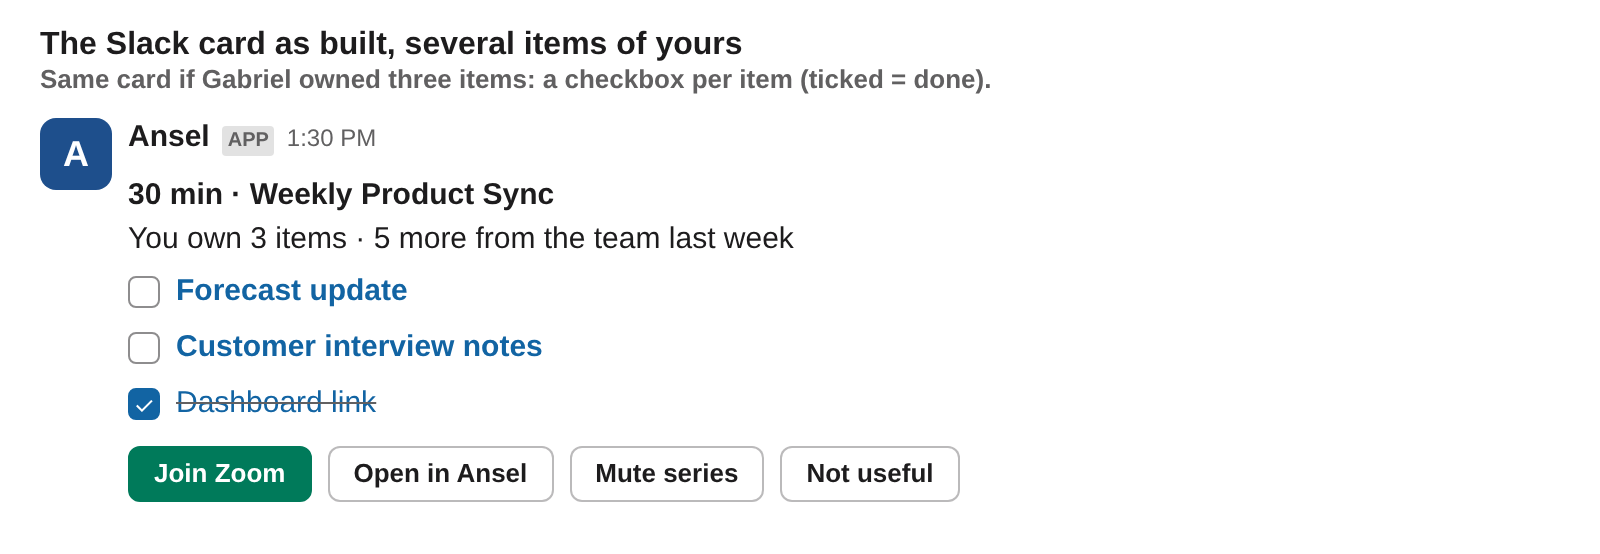
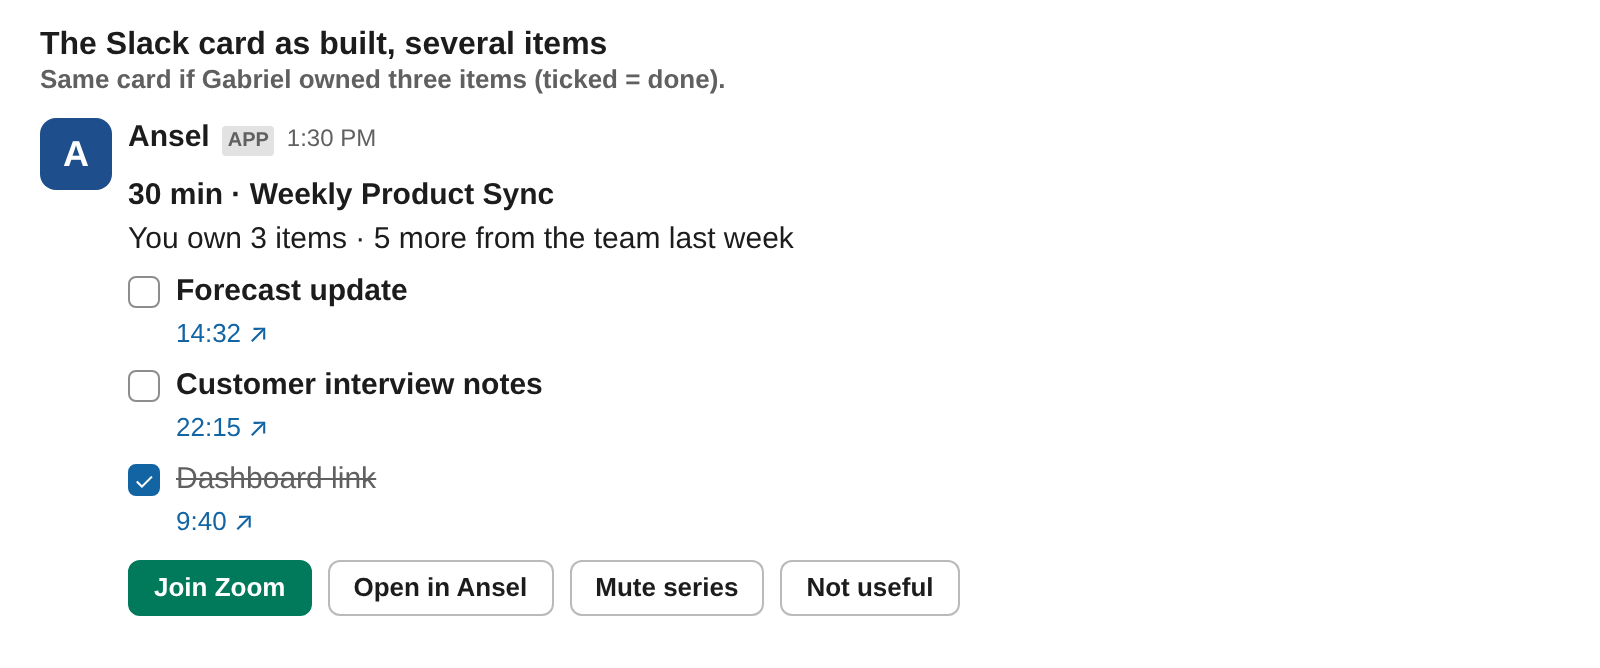
Slack card: a checkbox per item of yours with a short timestamp link
Every item of yours (one or several) gets a checkbox, its note a link to
its transcript moment; the ✓ button goes. Links use the prototype's new
short #t/<itemId> form so checkbox labels and notes stay within Slack's
75-character limit (this also fixes oversized labels on cards with several
items). The prototype resolves #t/<itemId> to the item's meeting and time.

Claude-Session: https://claude.ai/code/session_01SoGk1RXc8CwLh1htLSh9WK

Changed region(s): [[0.0, 0.0307, 0.625, 0.3682], [0.0625, 0.491, 0.5938, 0.9206], [0.0625, 0.3989, 0.5, 0.4603]]

diff --git a/slack-app/src/card.js b/slack-app/src/card.js
@@ -1,10 +1,12 @@
 // Slack Block Kit version of the Heads-Up card, contract 2.0 data (card/CONTRACT.md), in the team's chosen
 // condensed layout (card/slack-mockups/condensed, B3 + M2): one text block and one row of buttons.
 //   *30 min · Weekly Product Sync*
-//   You own <Forecast update> · 5 more items from last week          (one item of yours: a ✓ button)
-//   You own 3 items · 4 more from the team last week + a checkbox per item (several items of yours)
-//   [✓] [Join Zoom] [Open in Ansel] [Mute series] [Not useful]
-// Item names link to their moment in last meeting's transcript in the hosted prototype.
+//   You own 2 items · 4 more from the team last week
+//   ☐ Forecast update        (a checkbox per item of yours, up to 3; ticked = done)
+//     14:32 ↗                (small note: link to that moment in last meeting's transcript)
+//   [Join Zoom] [Open in Ansel] [Mute series] [Not useful]
+// Slack caps checkbox labels and notes at 75 characters, link address included, so the note uses the
+// prototype's short #t/<itemId> link.
 
 export const NOT_USEFUL_REASONS = [['already_knew', 'Already knew this'], ['wrong_meeting', 'Wrong meeting'], ['bad_timing', 'Bad timing']]
 const SOON_MS = 5 * 60000
@@ -33,6 +35,10 @@ const md = (text) => ({ type: 'mrkdwn', text })
 const ctxBlock = (text) => ({ type: 'context', elements: [md(text)] })
 
 export const MAX_CHECKBOXES = 3
+export const OPTION_LIMIT = 75 // Slack's limit for a checkbox label or note
+
+/** Short transcript link (#t/<itemId>); the prototype opens that item's moment in its meeting. */
+export const shortTranscriptLink = (prototypeUrl, itemId) => (prototypeUrl ? `${prototypeUrl.replace(/#.*$/, '')}#t/${itemId}` : null)
 
 /**
  * entry: { persona, sid, startMs, joinUrl, postMs, data (contract 2.0), ui: { muted, notUseful, done } }
@@ -62,25 +68,25 @@ export function buildCard(entry, { nowMs = Date.now(), prototypeUrl = '' } = {})
   const mine = items.filter((i) => i.owner.id === me)
   const othersCount = items.length - mine.length + (data.actionItems.moreCount || 0)
   const isDone = (it) => ui.done[it.id] ?? !!it.done
-  const name = (it) => {
-    const url = deepLink(prototypeUrl, { instanceId: data.lastMeeting.meetingId, t: it.t, itemId: it.id })
-    return url ? `<${url}|${it.text}>` : it.text
-  }
   const plural = (n, word) => `${n} ${word}${n === 1 ? '' : 's'}`
+  const fit = (text) => (text.length <= OPTION_LIMIT ? text : `${text.slice(0, OPTION_LIMIT - 1)}…`)
 
   let line
   if (mine.length === 0) line = `${plural(othersCount, 'action item')} from last week, none assigned to you`
-  else if (mine.length === 1) {
-    const it = mine[0]
-    line = `You own ${isDone(it) ? `~${name(it)}~ · _Done_` : `*${name(it)}*`}${othersCount ? ` · ${othersCount} more item${othersCount === 1 ? '' : 's'} from last week` : ''}`
-  } else line = `You own ${mine.length} items${othersCount ? ` · ${othersCount} more from the team last week` : ''}`
+  else line = `You own ${plural(mine.length, 'item')}${othersCount ? ` · ${othersCount} more from the team last week` : ''}`
   if (state === 'ended') line += '\n_Meeting ended · new summary in about 6 min_'
 
   const blocks = [{ type: 'section', text: md(`*${hero} · ${m.title}*\n${line}`) }]
 
-  if (mine.length > 1) {
+  if (mine.length) {
     const shown = mine.slice(0, MAX_CHECKBOXES)
-    const option = (it) => ({ text: md(isDone(it) ? `~${name(it)}~` : `*${name(it)}*`), value: it.id })
+    const option = (it) => {
+      const name = it.text.slice(0, OPTION_LIMIT - 4)
+      const url = shortTranscriptLink(prototypeUrl, it.id)
+      const stamp = fmtStamp(it.seconds)
+      const note = url && `<${url}|${stamp} ↗>`.length <= OPTION_LIMIT ? `<${url}|${stamp} ↗>` : stamp
+      return { text: md(isDone(it) ? `~${name}~` : `*${name}*`), description: md(fit(note)), value: it.id }
+    }
     const checked = shown.filter(isDone).map(option)
     blocks.push({ type: 'actions', elements: [{ type: 'checkboxes', action_id: 'hu_check', options: shown.map(option), ...(checked.length ? { initial_options: checked } : {}) }] })
     if (mine.length > shown.length) {
@@ -98,12 +104,6 @@ export function buildCard(entry, { nowMs = Date.now(), prototypeUrl = '' } = {})
   }
 
   const row = []
-  if (mine.length === 1) {
-    const it = mine[0]
-    row.push(isDone(it)
-      ? btn(`hu_done_undo:${it.id}`, '✓', meta, { style: 'primary', accessibility_label: `Done: ${it.text}. Tap to undo`.slice(0, 75) })
-      : btn(`hu_done:${it.id}`, '✓', meta, { accessibility_label: `Mark done: ${it.text}`.slice(0, 75) }))
-  }
   if (join) row.push(join)
   const summaryUrl = deepLink(prototypeUrl, { instanceId: data.lastMeeting.meetingId, tab: 'summary' })
   row.push(btn('hu_open_last', 'Open in Ansel', meta, summaryUrl ? { url: summaryUrl } : {}))

diff --git a/src/state/store.jsx b/src/state/store.jsx
@@ -149,10 +149,17 @@ export function StoreProvider({ children }) {
     const t = setInterval(() => dispatch({ type: 'TICK' }), 1000)
     return () => clearInterval(t)
   }, [])
-  // Deep links from the Slack app: #ansel/<instanceId>/<tab>/<mm:ss>/<itemId>
+  // Deep links from the Slack app: #ansel/<instanceId>/<tab>/<mm:ss>/<itemId>, or the short
+  // #t/<itemId> (opens that item's moment in its meeting's transcript; short enough for Slack checkbox notes).
   useEffect(() => {
     const open = () => {
-      const [root, instanceId, tab = 'summary', t, panelItem] = decodeURIComponent(location.hash.slice(1)).split('/')
+      const parts = decodeURIComponent(location.hash.slice(1)).split('/')
+      if (parts[0] === 't') {
+        const inst = SEED.instances.find((i) => [...i.actionItems, ...i.decisions, ...i.openQuestions].some((x) => x.id === parts[1]))
+        const item = inst && [...inst.actionItems, ...inst.decisions, ...inst.openQuestions].find((x) => x.id === parts[1])
+        if (item) parts.splice(0, 2, 'ansel', inst.id, 'transcript', item.t, item.id)
+      }
+      const [root, instanceId, tab = 'summary', t, panelItem] = parts
       if (root !== 'ansel' || !SEED.instances.some((i) => i.id === instanceId)) return
       dispatch({ type: 'AT_LEAST_CLOCK', sec: 13.5 * 3600 })
       dispatch({ type: 'OPEN_ANSEL', nav: { instanceId, tab, highlight: t ? { t, n: Date.now() } : null, panelItem: panelItem || null } })

diff --git a/slack-app/README.md b/slack-app/README.md
@@ -173,20 +173,22 @@ Layout (condensed, chosen in [`../card/slack-mockups/`](../card/slack-mockups/RE
 
 ```
 30 min · Weekly Product Sync
-You own Forecast update · 5 more items from last week
-[✓] [Join Zoom] [Open in Ansel] [Mute series] [Not useful]
+You own 1 item · 5 more from the team last week
+☐ Forecast update
+  14:32 ↗
+[Join Zoom] [Open in Ansel] [Mute series] [Not useful]
 ```
 
-Your item's name links to its moment in last meeting's transcript in the hosted prototype. If you own several items, each gets a checkbox (up to 3, then "+N more of yours in Ansel") instead of the ✓ button. Everything else (other people's items, the transcript, Not right) is in Ansel.
+Each item of yours gets a checkbox (up to 3, then "+N more of yours in Ansel"); its small note is a link to that moment in last meeting's transcript. Slack caps checkbox labels and notes at 75 characters, link address included, so the note uses the prototype's short `#t/<itemId>` link. Everything else (other people's items, Not right) is in Ansel.
 
 | Control | Behavior | Event |
 |---|---|---|
-| ✓ (one item of yours) / checkboxes (several) | Marks your item done (struck through, ✓ turns green); tap or untick to undo | `mark_done` ★ / `mark_done_undone` |
+| Checkbox | Ticking marks your item done (struck through); unticking undoes it | `mark_done` ★ / `mark_done_undone` |
 | Join Zoom / Join now | Opens the meeting link; the green button; removed after the meeting ends | `join_tap` (with `joinedPrepared`: true if something was marked done first) |
 | Open in Ansel | Opens last meeting's summary in the hosted prototype (default), or replies privately with the summary if `PROTOTYPE_URL=off` | `open_last_meeting` |
 | Mute series / Undo | Collapses the card to one line (Join stays) and stops future cards for the series | `mute_series` / `mute_undone` |
 | Not useful → reason / Undo | Asks "What was off?" (Already knew this, Wrong meeting, Bad timing) | `not_useful`, `not_useful_reason`, `not_useful_undone` |
-| Item name (link) | Opens the transcript at that item | not logged (Slack doesn't report link clicks) |
+| Timestamp link under an item (e.g. 14:32 ↗) | Opens the transcript at that item | not logged (Slack doesn't report link clicks) |
 
 Slack buttons come in three styles only (default, green, red), so Open in Ansel uses the default style.
 

diff --git a/card/slack-mockups/README.md b/card/slack-mockups/README.md
@@ -29,3 +29,5 @@ The images are approximations drawn outside Slack (stand-in font; spacing and bu
 **Chosen: C** (checkboxes with a grey note). Link-style previews in `links/`: `L1-timestamp` (the time is the link), `L2-quote-link` (the quote is the link), `L3-transcript-link` ("Transcript 14:32 ↗" at the end), `L4-buttons` (the time as a button, which needs one row per item plus a separate checkbox list), `L5-checkbox-and-button` (one row per item: a one-option checkbox, then the time button; exact placement is up to Slack, check in Block Kit Builder).
 
 **Slack's 75-character limit on checkbox labels and notes** (which includes a link's address) means a transcript link can't go inside a checkbox. `links/L6-fits-limits.*` and `links/L6-one-item.*` show option 3 within the limit: the quote under each checkbox, and the "Transcript 14:32 ↗" links on one small line below.
+
+**Built: option 3 without the quote.** A checkbox per item of yours, with a timestamp link (`#t/<itemId>`) as its note; `live-card.png` and `live-card-several.png` are the real output.
